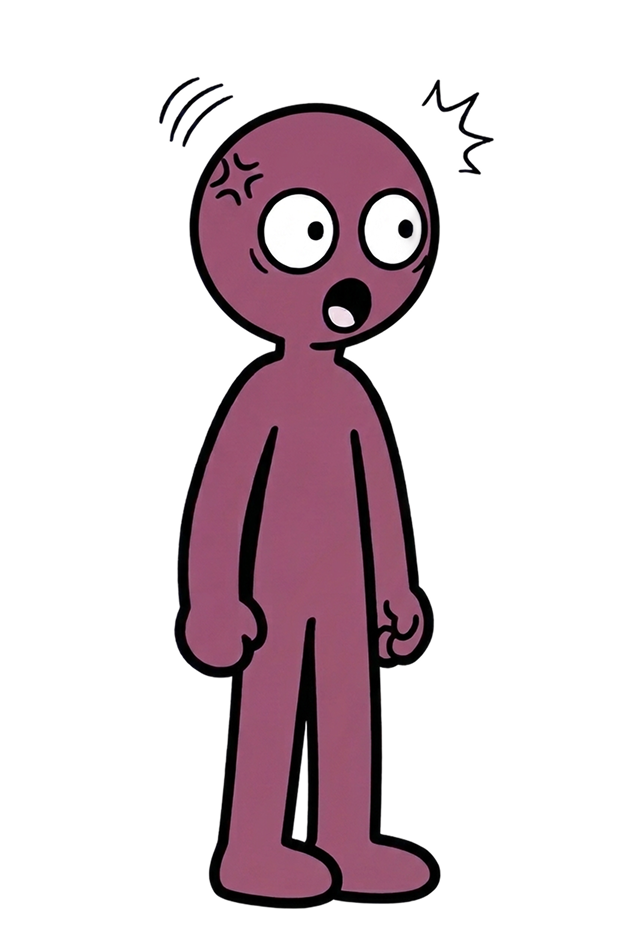
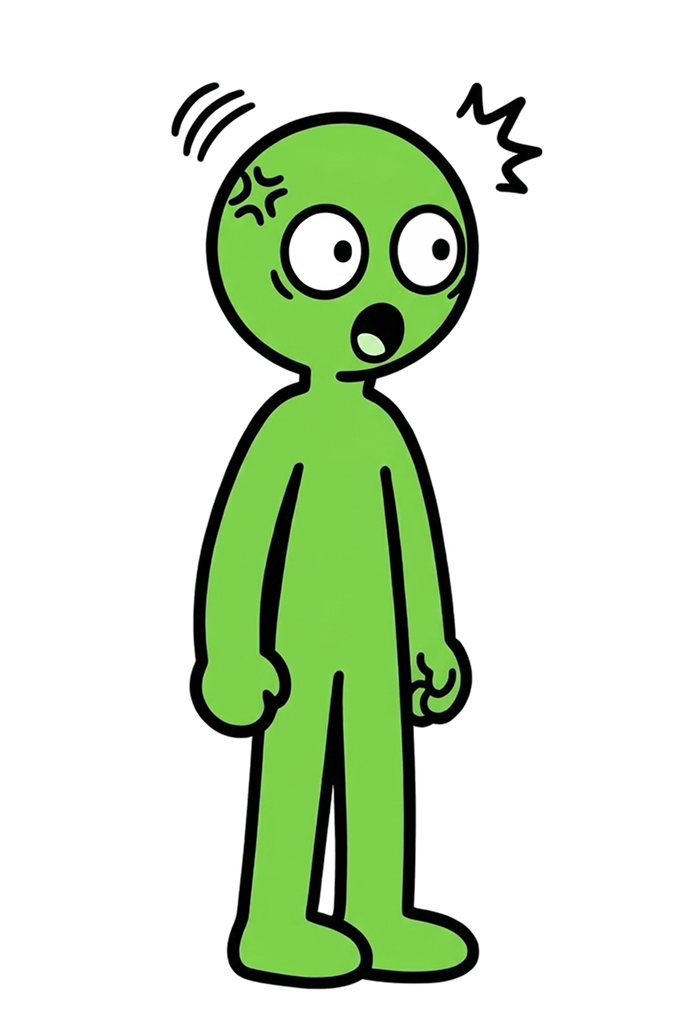
Change colour of character

Changed region(s): [[0.2736, 0.0928, 0.6992, 0.9594], [0.6688, 0.0619, 0.7904, 0.2166], [0.2432, 0.0619, 0.3648, 0.1547]]

diff --git a/Vy- User InPut.js b/Vy- User InPut.js
@@ -240,7 +240,7 @@ function drawCharacterAndKite(x, groundY, time, options = {}) {
 
   push();
   // Change this value to recolour the character image.
-  const characterTint = color('rgb(153, 83, 245)');
+  const characterTint = color('rgb(83, 245, 110)');
   if (imageToDraw === surprisedImage) {
     noTint(); // The 'surprised' image retains its original colors
   } else {
